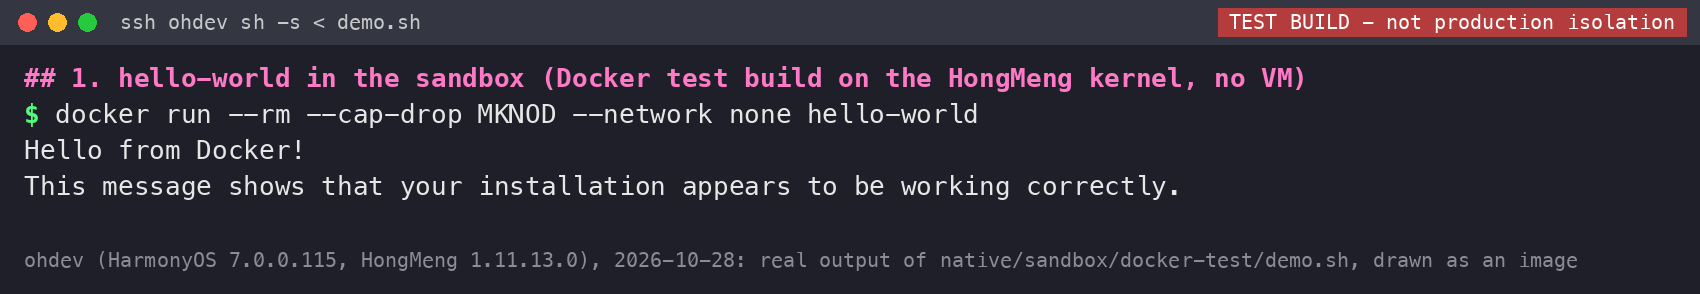
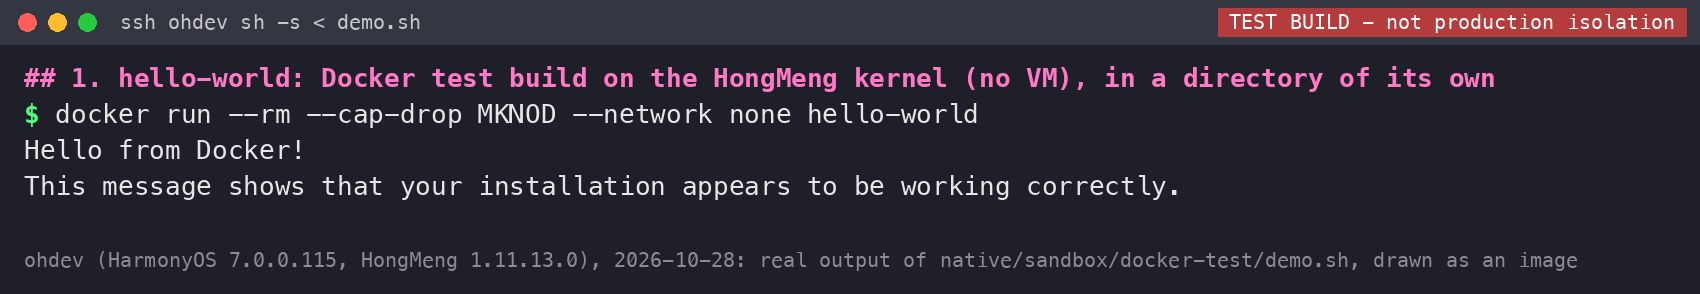
handover, demo-operator: the Docker test build's network is Docker's own netns
Not the pink sandbox app's network; host networking is only the fallback
without NET=pasta, which demo.sh refuses. demo.sh step titles and the
rendered images say the same (rerun on ohdev 10-28).

Changed region(s): [[0.1559, 0.2143, 0.9041, 0.3061]]

diff --git a/docs/handover.zh-CN.md b/docs/handover.zh-CN.md
@@ -131,7 +131,7 @@
   - 开机自起小助手：cfg 已写入，但 init 只在开机时读，要等下次真重启才能验证；在那之前机器重启后要手动 `ohm-sandbox serve`。
   - 换网络后要 `ohm-sandbox net` 重连；只有 IPv4。
 - 允许清单（10-27 只读调查，H 线）：ohdev 是 developer 版（const.debuggable=1），SELinux 全局 enforcing，策略为 CIL，源码和 secilc、checkpolicy、chcon 等工具在机器上，/sys/fs/selinux/load 对 root 可写。可行做法是运行时加载一个只新增类型和规则的模块（新域只能读写自己的目录），不改 /system，重启即恢复。hmmac 是第二层 MAC，没有可操作的接口，但不妨碍更严的 SELinux 新域。运行时加载是否被接受已做初步实测（2026-10-27，H 线）：把导出的现有策略（/sys/fs/selinux/policy，3299594 字节）原样写回 /sys/fs/selinux/load 两次均被拒——第一次 rc=1，第二次 errno=EINVAL，写入 0 字节、内核策略未变、系统无损（Enforcing、策略大小不变，bm/hidumper/ssh/hdc 全部正常，死人开关每次都在 300 秒内手动撤销、从未触发）。当时 su 为 permissive 且具备 CAP_MAC_ADMIN，失败时无任何 SELinux/hmmac 拒绝记录。故**原样回灌不通**。随后的 step-2 实测（2026-10-27）已定论：开机实际加载的是 /vendor/etc/selinux/prebuild_sepolicy/developer_policy（3299594 字节，与 live 一致；policy.31 是 3269901 字节的非 developer 版，用它会丢 developer 规则，不用）。把**这份开机原版**原样写回 /sys/fs/selinux/load 仍是 EINVAL、0 字节——连内核开机时自己接受的同一份二进制都回灌不了，排除了格式问题，**证明鸿蒙内核在开机后硬禁止再加载任何策略**。因此运行时加载我们自己的 SELinux 域在本机不可行（step-2b 不做），且运行时没有任何回灌恢复、只能重启（两次 step-2 测试均零改动、系统无损、无需恢复）。后续结论（10-28）：ohdev 的内核不接受运行时加载策略，v1 改用命名空间、pivot_root 和去能力，小助手留在 `su` 域（见上面"已知缺口"）。
-- **Docker（10-27，I 线）。**此前 I 线的 Docker 跑在 StratoVirt 虚拟机里，dockerd 直接跑在 HongMeng 内核上是第一次尝试。已查实有 overlayfs 和 mnt、pid、net、ipc、uts 命名空间，没有 user 和 cgroup 命名空间，只能 rootful；cgroup 只有一套层级，文件名为 v2 风格，mountinfo 不写子系统名，runc 可能识别不了。v1 先不接 cgroup、不改 iptables、容器用 host 网络（10-27 时沙箱能连宿主 127.0.0.1；10-28 发现沙箱进程仍在主机网络里，逐沙箱的网络隔离补丁待启用，Docker 接入时网络要一并设计）。
+- **Docker（10-27，I 线）。**此前 I 线的 Docker 跑在 StratoVirt 虚拟机里，dockerd 直接跑在 HongMeng 内核上是第一次尝试。已查实有 overlayfs 和 mnt、pid、net、ipc、uts 命名空间，没有 user 和 cgroup 命名空间，只能 rootful；cgroup 只有一套层级，文件名为 v2 风格，mountinfo 不写子系统名，runc 可能识别不了。v1 先不接 cgroup、不改 iptables、容器用 host 网络（10-27 时沙箱能连宿主 127.0.0.1；10-28 发现沙箱进程仍在主机网络里，逐沙箱的网络隔离补丁待启用，Docker 接入时网络要一并设计）。**Docker 测试版自己的网络（10-28 更新）：** 演示用的测试版用 `NET=pasta` 启动，dockerd 和容器都在 Docker 自己的 net namespace 里，经 pasta 出网；10-28 实测隔离为真：容器连不到宿主 127.0.0.1 上真实存在的监听，也连不到宿主的局域网地址（17f7fa0，native/sandbox/docker-test/README.md，以及 3(a) 节末尾的 Docker 测试版一段）。上面说的"容器用 host 网络"，是不带 NET 启动时的回退模式；demo.sh 发现 dockerd 和宿主同一个 netns 会拒绝运行。这和粉色沙箱 app 的网络是两回事。
 - 本文第 3(b) 节里与小助手、MAC 规则、允许清单相关的请求，以该文档定稿为准。
 
 **I 自建后台虚拟机**（docs/vm-own.md）
